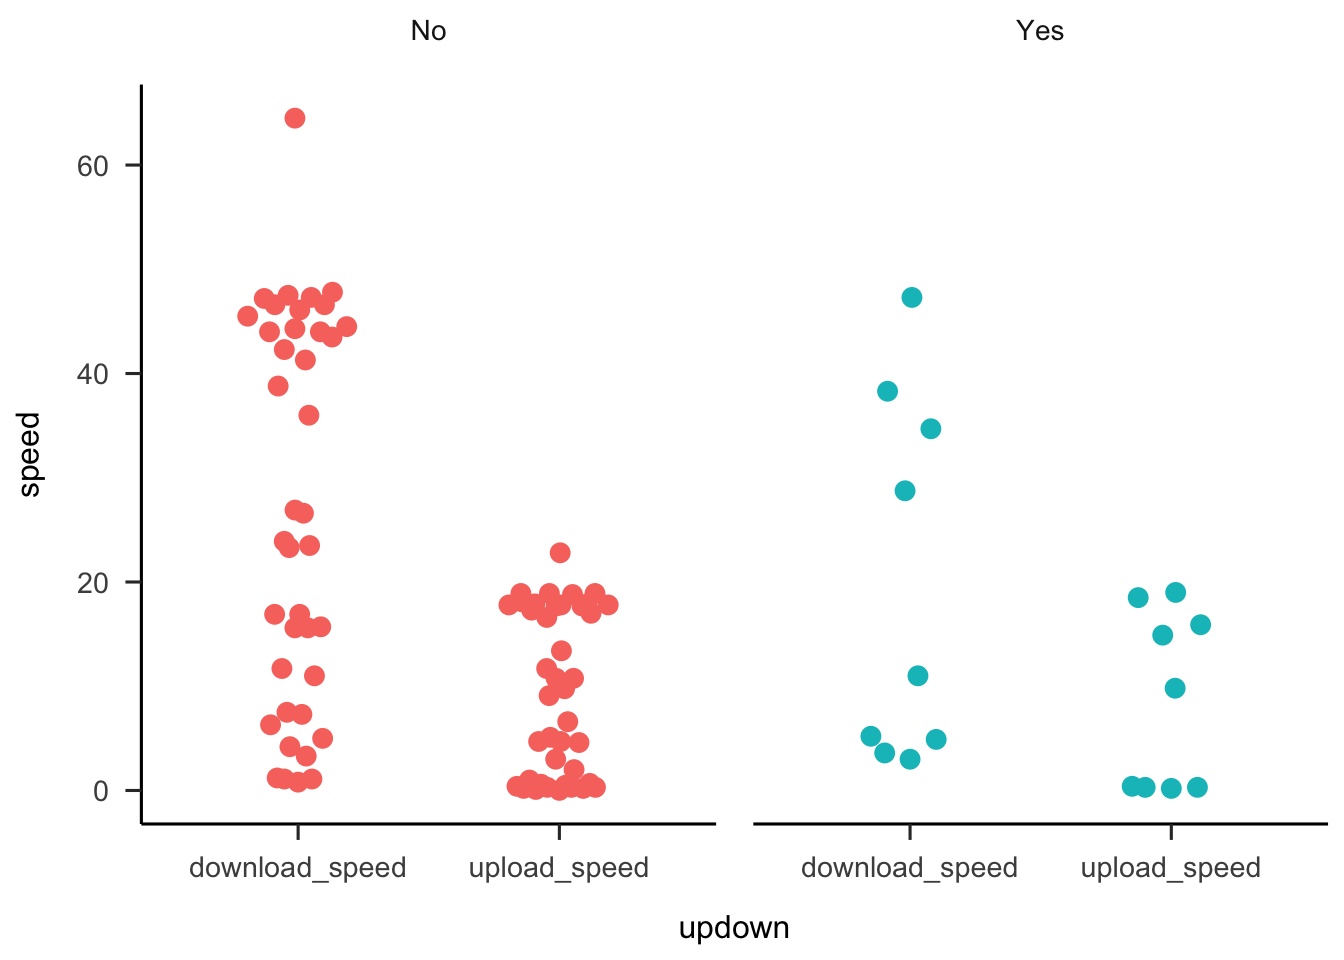
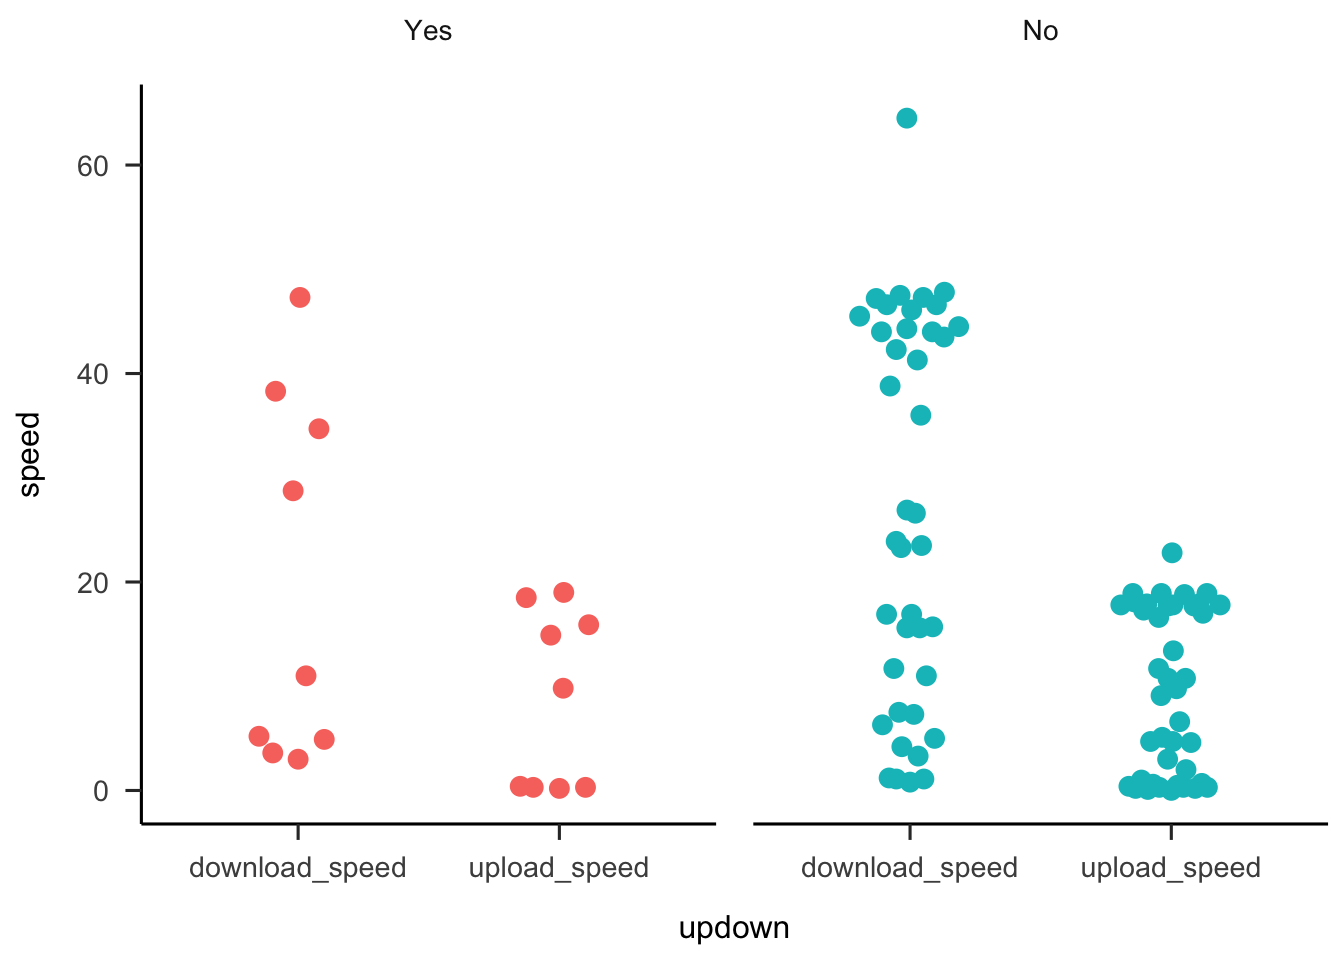
idhtg

diff --git a/public/post/index.html b/public/post/index.html
@@ -178,6 +178,12 @@ center variable A  scale(A, center = TRUE, scale = FALSE)
               <div class="col-xs-12 col-sm-6 col-md-4 col-lg-3 masonry-item">
                   <div class="box-masonry">
                       
+                        
+                        <a href="/post/ggplot-tricks/" title="" class="box-masonry-image with-hover-overlay with-hover-icon">
+                        
+                            <img src="/img/portfolio/testplot.png" alt="" class="img-responsive">
+                        </a>
+                      
                       
                       <div class="box-masonry-text">
                       
@@ -197,10 +203,16 @@ Why is my internet speed so terrible? Working from home and pivoting to teaching
               <div class="col-xs-12 col-sm-6 col-md-4 col-lg-3 masonry-item">
                   <div class="box-masonry">
                       
+                        
+                        <a href="/post/bank/" title="" class="box-masonry-image with-hover-overlay with-hover-icon">
+                        
+                            <img src="/img/portfolio/april.png" alt="" class="img-responsive">
+                        </a>
+                      
                       
                       <div class="box-masonry-text">
                       
-                          <h4><a href="/post/bank/">How to use R to analyse your bank transactions</a></h4>
+                          <h4><a href="/post/bank/">Spending in COVID</a></h4>
                           <div class="box-masonry-description">
                             <p>
                                 

diff --git a/public/post/bank/index.html b/public/post/bank/index.html
@@ -2,7 +2,7 @@
 <html lang="en-us">
 <head><meta charset="utf-8">
 <meta http-equiv="X-UA-Compatible" content="IE=edge">
-<title>How to use R to analyse your bank transactions</title>
+<title>Spending in COVID</title>
 <meta name="description" content="R notes to myself">
 <meta name="viewport" content="width=device-width, initial-scale=1">
 <meta name="robots" content="all,follow">
@@ -100,7 +100,7 @@
   <div class="row">
     <div class="col-lg-8">
       <div class="content-column-content">
-         <h1>How to use R to analyse your bank transactions</h1>
+         <h1>Spending in COVID</h1>
          
 
 
@@ -180,7 +180,10 @@ april_list_items$year &lt;- as.factor(april_list_items$year)</code></pre>
   theme(
   axis.text.y = element_blank(),
   axis.ticks = element_blank()) # removes y axis tick labels</code></pre>
+<pre><code>## `summarise()` regrouping output by &#39;year&#39; (override with `.groups` argument)</code></pre>
 <p><img src="/post/2020-05-05-bank_files/figure-html/unnamed-chunk-7-1.png" width="672" /></p>
+<pre class="r"><code>ggsave(&quot;april.png&quot;)</code></pre>
+<pre><code>## Saving 7 x 5 in image</code></pre>
 <p>We spend WAY too much on lunch/coffee at work every day!</p>
 </div>
 

diff --git a/content/post/2020-07-04-ggplot-tricks.html b/content/post/2020-07-04-ggplot-tricks.html
@@ -2,6 +2,7 @@
 title: ggplot tricks
 author: ''
 date: '2020-07-04'
+image: "img/portfolio/testplot.png"
 slug: ggplot-tricks
 categories: []
 tags: []
@@ -55,7 +56,9 @@ library(papaja) # this is mostly a package for writing APA formatted manuscripts
 <h3>First make the data long</h3>
 <pre class="r"><code>speedlong &lt;- speed3 %&gt;%
   select(where_do_you_live, is_it_raining, ends_with(&quot;speed&quot;)) %&gt;%
-  pivot_longer(names_to = &quot;updown&quot;, values_to = &quot;speed&quot;, download_speed:upload_speed)</code></pre>
+  pivot_longer(names_to = &quot;updown&quot;, values_to = &quot;speed&quot;, download_speed:upload_speed)
+
+speedlong$is_it_raining &lt;- fct_relevel(speedlong$is_it_raining, c(&quot;Yes&quot;, &quot;No&quot;))</code></pre>
 </div>
 <div id="plot-up-and-download-speeds." class="section level3">
 <h3>Plot up and download speeds.</h3>

diff --git a/content/post/2020-05-05-bank.html b/content/post/2020-05-05-bank.html
@@ -1,8 +1,9 @@
 ---
-title: How to use R to analyse your bank transactions
+title: Spending in COVID
 author: 'Jen Richmond'
 date: '2020-05-05'
 slug: bank
+image: "img/portfolio/april.png"
 categories: []
 tags: []
 ---
@@ -85,6 +86,9 @@ april_list_items$year &lt;- as.factor(april_list_items$year)</code></pre>
   theme(
   axis.text.y = element_blank(),
   axis.ticks = element_blank()) # removes y axis tick labels</code></pre>
+<pre><code>## `summarise()` regrouping output by &#39;year&#39; (override with `.groups` argument)</code></pre>
 <p><img src="/post/2020-05-05-bank_files/figure-html/unnamed-chunk-7-1.png" width="672" /></p>
+<pre class="r"><code>ggsave(&quot;april.png&quot;)</code></pre>
+<pre><code>## Saving 7 x 5 in image</code></pre>
 <p>We spend WAY too much on lunch/coffee at work every day!</p>
 </div>

diff --git a/public/post/ggplot-tricks/index.html b/public/post/ggplot-tricks/index.html
@@ -150,7 +150,9 @@ library(papaja) # this is mostly a package for writing APA formatted manuscripts
 <h3>First make the data long</h3>
 <pre class="r"><code>speedlong &lt;- speed3 %&gt;%
   select(where_do_you_live, is_it_raining, ends_with(&quot;speed&quot;)) %&gt;%
-  pivot_longer(names_to = &quot;updown&quot;, values_to = &quot;speed&quot;, download_speed:upload_speed)</code></pre>
+  pivot_longer(names_to = &quot;updown&quot;, values_to = &quot;speed&quot;, download_speed:upload_speed)
+
+speedlong$is_it_raining &lt;- fct_relevel(speedlong$is_it_raining, c(&quot;Yes&quot;, &quot;No&quot;))</code></pre>
 </div>
 <div id="plot-up-and-download-speeds." class="section level3">
 <h3>Plot up and download speeds.</h3>
